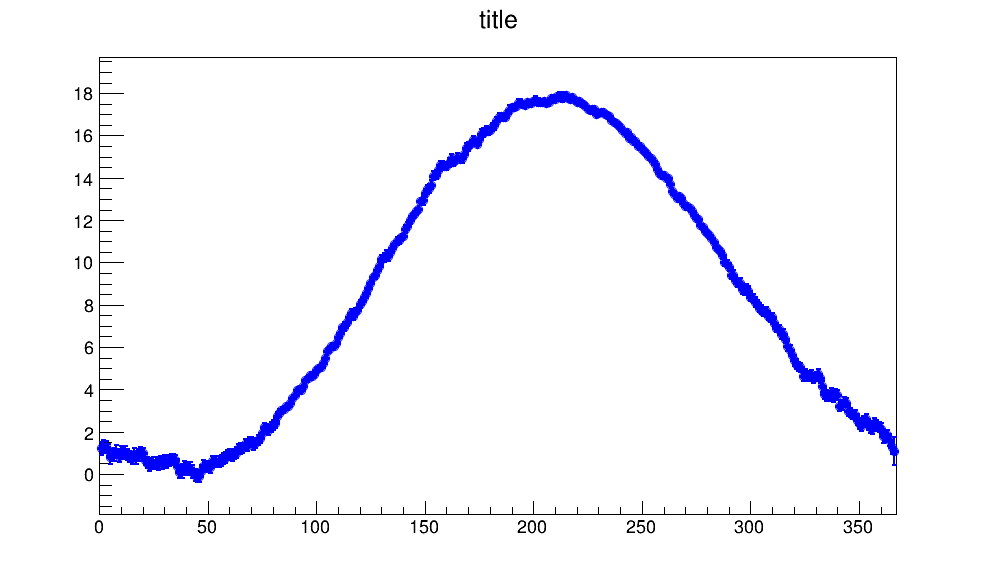
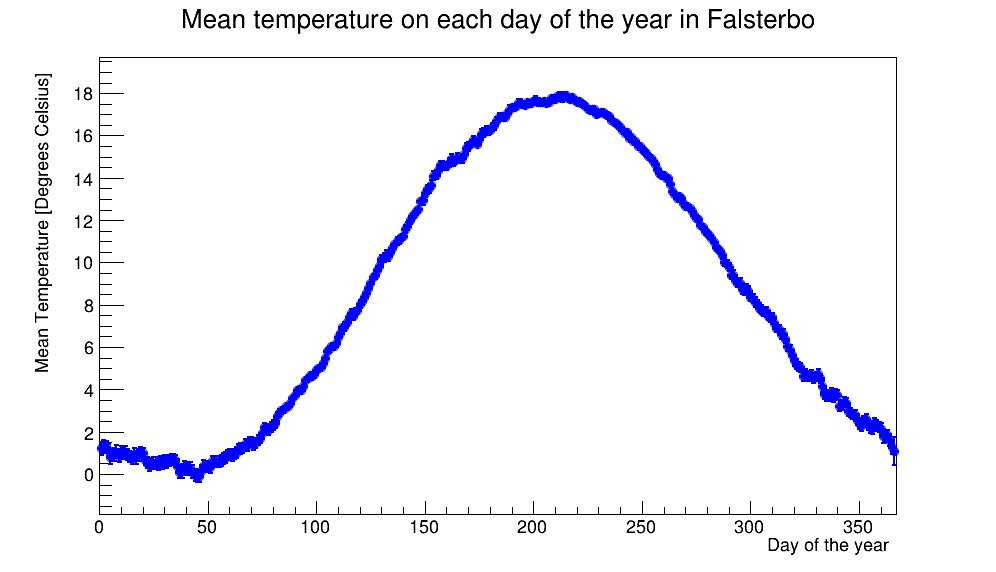
the plots have labels and titles

Changed region(s): [[0.1867, 0.0, 0.8092, 0.0594], [0.0311, 0.1189, 0.0622, 0.6538], [0.7781, 0.9213, 0.9026, 0.9808]]

diff --git a/Workplan.md b/Workplan.md
@@ -6,7 +6,7 @@ Team members: Lasse Ulbricht, Andrea Delic, Kyra Bohnen, Victor Hallberg, Kacper
 # Plan
 STAGE 1: Pre-processing
 1. Clean the data (proper CSV formatting) for
-    1.1. Lulea (ANDREA)
+    1.1. Lulea (KACPER)
     1.2. Falsterbo (LASSE)
     1.3. Karlstad (VICTOR)
 
@@ -18,7 +18,7 @@ STAGE 3: Analysis
 5. Mean temperature on each day of the year in Falsterbo; compare with the manual. (KACPER) 
 
 STAGE 4: Figures
-1. Generate the figures. Make them nice with proper axes labelling, title, etc. (KACPER)
+1. Generate the figures. Make them nice with proper axes labelling, title, etc. (ANDREA)
 
 STAGE 5: Report
 1. Write the common part: introduction and conclusion (KYRA)
